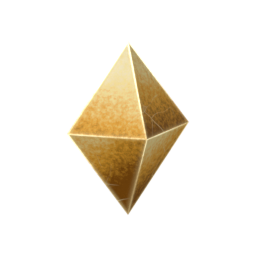
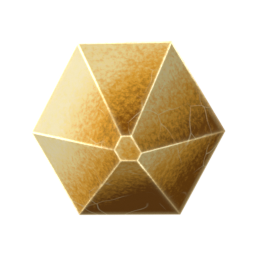
Граненый цитрин: шестигранная пирамида с маленьким плато
Шесть граней сходятся к маленькому плато в центре, контур — шестиугольник с острыми боковыми вершинами.

diff --git a/prototype/tools/blender/gem_kit.py b/prototype/tools/blender/gem_kit.py
@@ -244,16 +244,17 @@ def fac_ruby():
     return cut(turned(pl, best[1]), 31, (0.5, 1.1))
 
 def fac_citrine():
-    # an elongated bipyramid turned a little, small facets round its waist
-    pl = []
-    for k in range(4):
-        a = k * math.pi / 2 + math.pi / 4
-        for s in (-1, 1):
-            n = Vector((math.cos(a), math.sin(a) * 1.3, s * 0.62)).normalized()
-            pl.append((n * 0.2, n))
-    # small facets round the waist, never reaching its four points
-    pl += ring_planes(4, 0.3, 0, 0.0, math.pi / 4)
-    return cut(turned(pl, Quaternion((0, 0, 1), math.radians(22))), 37, (0.5, 1.1))
+    # a low hexagonal pyramid looking at us: six faces running in from the outline (pointed left and right)
+    # to a small plateau in the middle
+    rnd = random.Random(37)
+    pl = [(Vector((0, 0.12, 0)), Vector((0, 1, 0)))]                       # its flat back
+    tilt = math.radians(38)                                                  # how steeply the faces rise to the middle
+    for k in range(6):
+        a = math.radians(30 + 60 * k) + rnd.uniform(-0.06, 0.06)
+        n = Vector((math.cos(a) * math.cos(tilt), -math.sin(tilt), math.sin(a) * math.cos(tilt)))
+        pl.append((n * (0.3 * math.cos(tilt) + rnd.uniform(-0.01, 0.01)), n))
+    pl.append((Vector((0, -0.31, 0)), Vector((0, -1, 0))))                  # a small plateau at the tip
+    return cut(pl, 37, (0.5, 1.1))
 
 def fac_sapphire():
     rnd = random.Random(41)
@@ -519,7 +520,7 @@ def bloom(sc):
 
 # width / height on screen, as in the drawings; every stone is then fitted to the same height
 ASPECT = {"natural": {"ruby": 0.84, "citrine": 0.72, "sapphire": 0.78, "emerald": 0.86, "amethyst": 0.72, "diamond": 0.74},
-          "faceted": {"ruby": 0.86, "citrine": 0.7, "sapphire": 1.0, "emerald": 0.7, "amethyst": 1.05, "diamond": 0.66}}
+          "faceted": {"ruby": 0.86, "citrine": 1.12, "sapphire": 1.0, "emerald": 0.7, "amethyst": 1.05, "diamond": 0.66}}
 HEIGHT = 0.78   # of a cell
 
 def fit(o, aspect):
